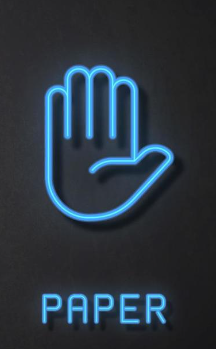
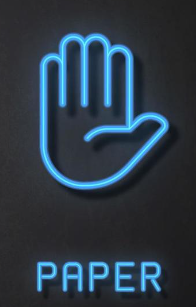
java console

Changed region(s): [[0.1837, 0.0879, 0.8878, 0.645], [0.1837, 0.8208, 0.8265, 0.9674]]

diff --git a/index.html b/index.html
@@ -8,29 +8,44 @@
 <body>
     <header>Round 1</header>
     <div class="game">
-        <div class="userScore">
+        <div class="scores">
+            <div class="user">
+                <div>
+                    <h2 id="userScore">You:</h2>
+                </div>
+                <div class="user-placeholder">
+                </div>
+            </div>
+            <div class="comp">             
+                <div>
+                    <h2 id="compScore">Computer:</h2>
+                </div>
+                <div class="comp-placeholder">
+                </div>
+            </div>
+        </div>
+        <div class="userPick">
+            <div>
+             <h2 id="pick">Take your pick</h2>    
+            </div>
             <div class="buttons">
                 <div id="rock">
                     <button>
-                        <img src="images/rock.png" alt="ROCK" width="200" height="300">
+                        <img src="images/rock.png" alt="ROCK" width="150" height="250">
                     </button>
                 </div>
                 <div id="paper">
                     <button>
-                        <img src="images/paper.png" alt="PAPER" width="200" height="300">
-                    </button>
-                    <h2>Take your pick</h2>
+                        <img src="images/paper.png" alt="PAPER" width="150" height="250">
+                    </button>  
                 </div>
                 <div id="scissors">
                     <button>
-                        <img src="images/scissors.png" alt="SCISSORS" width="200" height="300">
+                        <img src="images/scissors.png" alt="SCISSORS" width="150" height="250">
                     </button>
-                </div>
+                </div>          
             </div>
-        </div>
-        <div class="computerScore">
-
-        </div>
+        </div>                        
     </div>
    <script src="javaScript/script.js"></script> 
 </body>

diff --git a/css/style.css b/css/style.css
@@ -9,7 +9,7 @@
 }
 
 body {
-    background-color: rgb(39, 25, 25);
+    background-color: black;
 }
 
 header {
@@ -20,10 +20,9 @@ header {
 }
 
 .buttons {
-    border: none;
     display: flex;
+    gap: 20px;
     padding: 30px 30px;
-    margin-left: 250px;
 }
 
 img {
@@ -34,4 +33,43 @@ h2 {
     color: aliceblue;
     font-family: 'robotoBI';
     font-size: 30px;
+    text-align: center;
 }
+
+.scores {
+    display: flex;
+    gap: 150px;
+    padding: 30px 30px;
+    justify-content: center;
+    align-items: center;
+}
+
+
+.buttons {
+    justify-content: center;
+    align-items: center;
+}
+
+.user-placeholder {
+    width: 150px;
+    height: 250px;
+    background-color: gray;
+    background-image: url("path/to/placeholder-image.png");
+    background-repeat: no-repeat;
+    background-position: center;
+  }
+
+  .comp-placeholder {
+    justify-content: center;
+    align-items: center;
+    width: 150px;
+    height: 250px;
+    background-color: gray;
+    background-image: url("path/to/placeholder-image.png");
+    background-repeat: no-repeat;
+    background-position: center;
+  }
+  
+  .user {
+    display: inline-block;
+  }
